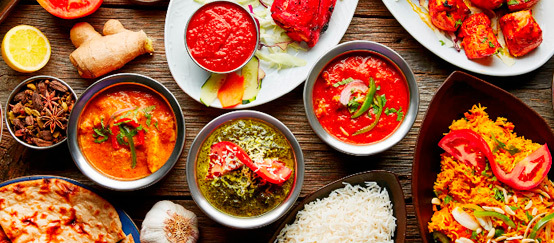
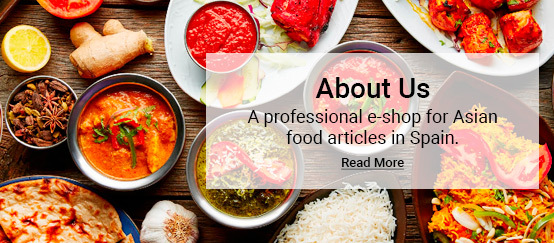
add new photos and router

diff --git a/frontend/src/shared/Header.js b/frontend/src/shared/Header.js
@@ -1,4 +1,7 @@
 import React from "react";
+import {
+Link
+} from 'react-router-dom';
 import logoLg from "../images/logo_190x104.jpg";
 import logoSm from "../images/logo_120x67.jpg";
 export const Header = () => {
@@ -6,7 +9,7 @@ export const Header = () => {
     <header className="header mb-5">
       <nav className="navbar navbar-expand-lg">
         <div className="container">
-          <a href="index.html" className="navbar-brand home">
+          <Link to="/" className="navbar-brand home">
             <img
               src={logoLg}
               alt="The Ultimate Asian Food Eshop Logo"
@@ -18,7 +21,7 @@ export const Header = () => {
               className="d-inline-block d-md-none"
             />
             <span className="sr-only">Obaju - go to homepage</span>
-          </a>
+          </Link>
           <div className="navbar-buttons">
             <button
               type="button"
@@ -39,9 +42,9 @@ export const Header = () => {
           <div id="navigation" className="collapse navbar-collapse">
             <ul className="navbar-nav mr-auto">
               <li className="nav-item">
-                <a href="#" className="nav-link active">
+                <Link to="/" className="nav-link active">
                   Home
-                </a>
+                </Link>
               </li>
               <li className="nav-item">
                 <a href="#" className="nav-link">

diff --git a/frontend/src/App.js b/frontend/src/App.js
@@ -1,30 +1,9 @@
-import React, { useState, useEffect } from "react";
-import Carrousel from './components/Carrousel';
-import { Container } from 'react-bootstrap';
-import FavoriteProducts from "./components/FavoriteProducts.js";
-import Company from "./components/Company.js";
-import axios from "axios";
+import React from "react";
+import {AppRouter} from './routes/AppRoutes';
 
-import { Layout } from "./layout/Layout";
 
 function App() {
-  const [favoriteProducts, setFavoriteProducts] = useState([]);
-
-  useEffect(() => {
-    axios.get('http://localhost:3001/favorites')
-    .then(function (response) {
-      setFavoriteProducts (response.data)
-      console.group(response.data)
-    });
-  }, [])
-
-  return <Layout>
-    <Container fluid >
-      <Carrousel />
-      <FavoriteProducts data={favoriteProducts}/>
-      <Company />
-    </Container>
-  </Layout>;
+  return <AppRouter/>
 }
 
 export default App;

diff --git a/frontend/src/components/Company.js b/frontend/src/components/Company.js
@@ -18,11 +18,7 @@ const Company = () => {
           ></img>
 
           <div className="centered-about-company">
-            <h1>About Us</h1>
-            <h3>A professional e shop for asian food articles in Spain</h3>
-            <a href="https://www.w3schools.com/howto/tryit.asp?filename=tryhow_css_image_text">
-              Read More!
-            </a>
+            
           </div>
         </div>
 
@@ -34,13 +30,6 @@ const Company = () => {
           ></img>
 
           <div className="centered-faq-company">
-            <h1>FAQ</h1>
-            <h3>
-              Answers on a particular topic.The format is often used online.
-            </h3>
-            <a href="https://www.w3schools.com/howto/tryit.asp?filename=tryhow_css_image_text">
-              Read More!
-            </a>
           </div>
         </div>
       </div>

diff --git a/frontend/src/pages/ProductDetailed.js b/frontend/src/pages/ProductDetailed.js
@@ -1,0 +1,30 @@
+import React, { useState, useEffect } from "react";
+import { Container } from 'react-bootstrap';
+import axios from "axios";
+import { Layout } from "../layout/Layout";
+import FavoriteProducts from "../components/FavoriteProducts.js";
+import Company from "../components/Company.js";
+
+
+const ProductDetailed = () => {
+    const [favoriteProducts, setFavoriteProducts] = useState([]);
+
+  useEffect(() => {
+    axios.get('http://localhost:3001/favorites')
+    .then(function (response) {
+      setFavoriteProducts (response.data)
+      console.group(response.data)
+    });
+  }, [])
+
+
+    return <Layout >
+        <Container >
+        <h1>Product Detailed Component</h1>
+        <FavoriteProducts data={favoriteProducts}/>
+        <Company />
+        </Container>
+    </Layout>
+}
+
+export default ProductDetailed;

diff --git a/frontend/src/pages/Home.js b/frontend/src/pages/Home.js
@@ -1,0 +1,31 @@
+import React, { useState, useEffect } from "react";
+import { Container } from 'react-bootstrap';
+import axios from "axios";
+
+import { Layout } from "../layout/Layout";
+import Carrousel from '../components/Carrousel';
+import FavoriteProducts from "../components/FavoriteProducts.js";
+import Company from "../components/Company.js";
+
+
+const Home = () => {
+  const [favoriteProducts, setFavoriteProducts] = useState([]);
+
+  useEffect(() => {
+    axios.get('http://localhost:3001/favorites')
+    .then(function (response) {
+      setFavoriteProducts (response.data)
+      console.group(response.data)
+    });
+  }, [])
+
+  return <Layout>
+    <Container fluid >
+      <Carrousel />
+      <FavoriteProducts data={favoriteProducts}/>
+      <Company />
+    </Container>
+  </Layout>;
+}
+
+export default Home;

diff --git a/frontend/src/routes/AppRoutes.js b/frontend/src/routes/AppRoutes.js
@@ -1,0 +1,19 @@
+import React from 'react';
+import {
+  BrowserRouter as Router,
+  Switch,
+  Route
+} from 'react-router-dom';
+import Home from '../pages/Home';
+import ProductDetailed from '../pages/ProductDetailed';
+
+export const AppRouter = () => {
+  return (
+    <Router>
+        <Switch>
+          <Route exact path="/" component={Home}/> 
+          <Route exact path="/product-detail" component={ProductDetailed}/>
+        </Switch>
+    </Router>
+  )
+}

diff --git a/frontend/src/components/FavoriteProducts.js b/frontend/src/components/FavoriteProducts.js
@@ -3,7 +3,7 @@ import { Row } from 'react-bootstrap'
 
 import Card from "react-bootstrap/Card";
 import CardDeck from "react-bootstrap/CardDeck";
-import productsimg from "../images/productsimg.jpeg";
+import productsimg from "../images/productsimg.png";
 import { getImages } from "../images/products/products";
 
 
